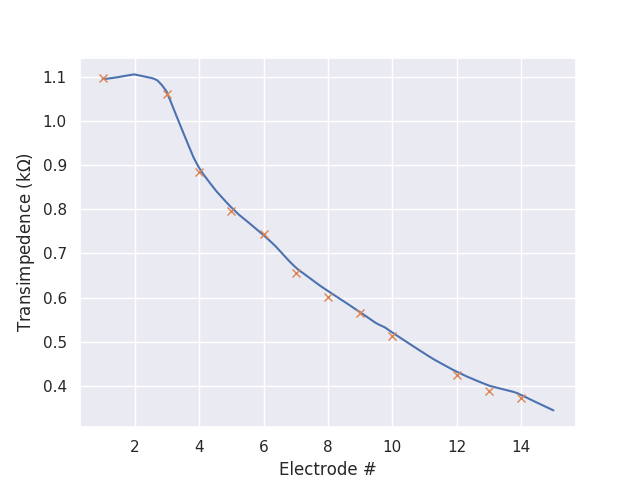
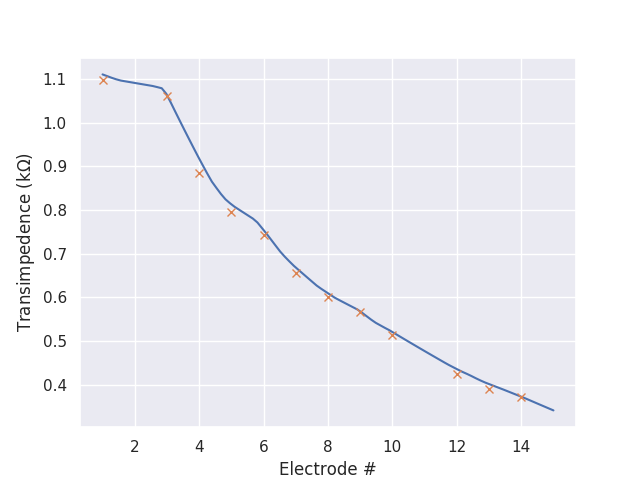
Fix random seed

diff --git a/fit-nn.py b/fit-nn.py
@@ -27,6 +27,13 @@ if not os.path.isdir(savedir):
 
 saveas = 'test'  # TODO
 
+# Control fitting seed
+# fit_seed = np.random.randint(0, 2**30)
+fit_seed = 542811797
+print('Fit seed: ', fit_seed)
+np.random.seed(fit_seed)
+nn.tf.random.set_seed(fit_seed)
+
 broken_electrodes = [1, 12, 16]
 logtransform_x = transform.NaturalLogarithmicTransform()
 logtransform_y = transform.NaturalLogarithmicTransform()
@@ -116,11 +123,11 @@ plt.ylabel("Log loss (mean-squared error) of scaled y")
 plt.savefig('%s/nn-%s-loss' % (savedir, saveas))
 
 # Save trained NN TODO
-# trained_nn_model.save('%s/nn-%s.pkl' % (savedir, saveas))
+trained_nn_model.save('%s/nn-%s.h5' % (savedir, saveas))
 # NOTE, to load:
 # >>> import tensorflow as tf
 # >>> trained_nn_model = tf.keras.models.load_model(
-# ...                    '%s/nn-%s.pkl' % (savedir, saveas))
+# ...                    '%s/nn-%s.h5' % (savedir, saveas))
 
 # Simple check
 predict_k = 8
